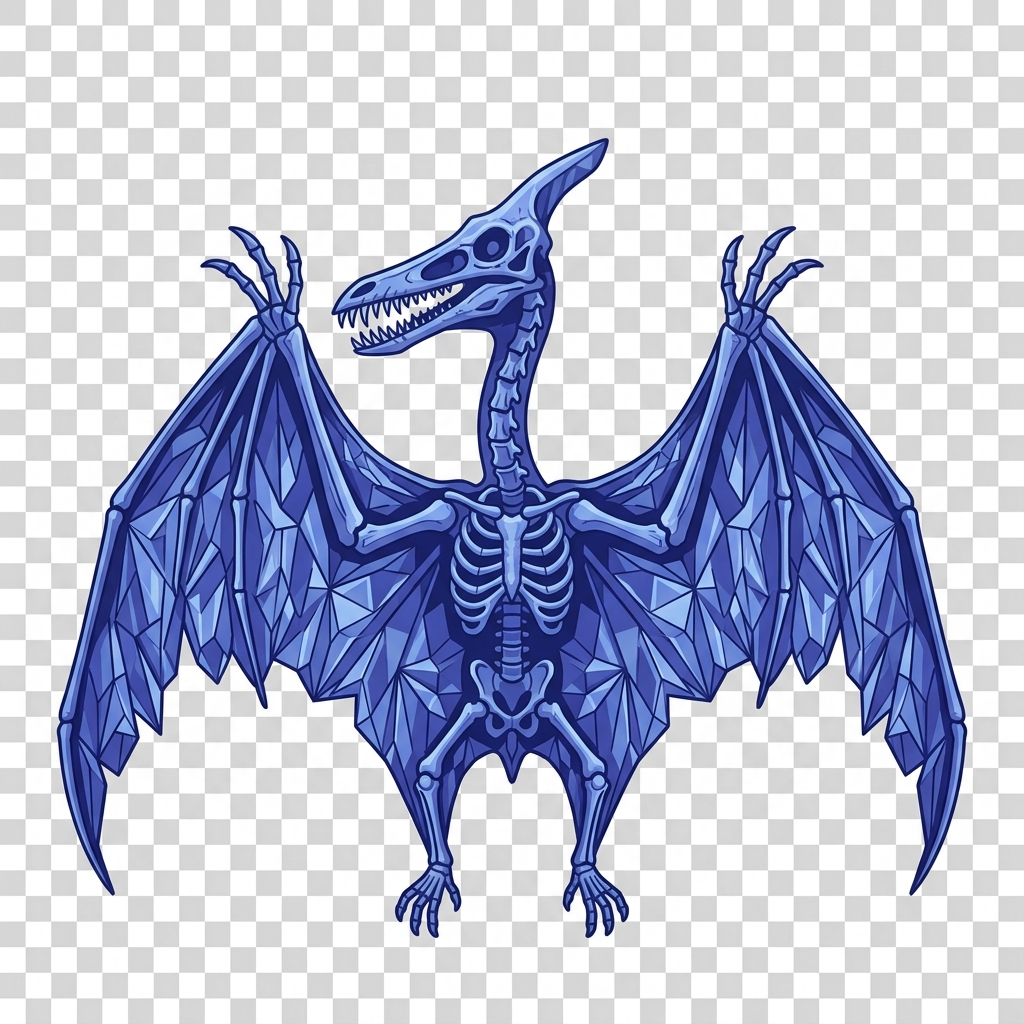
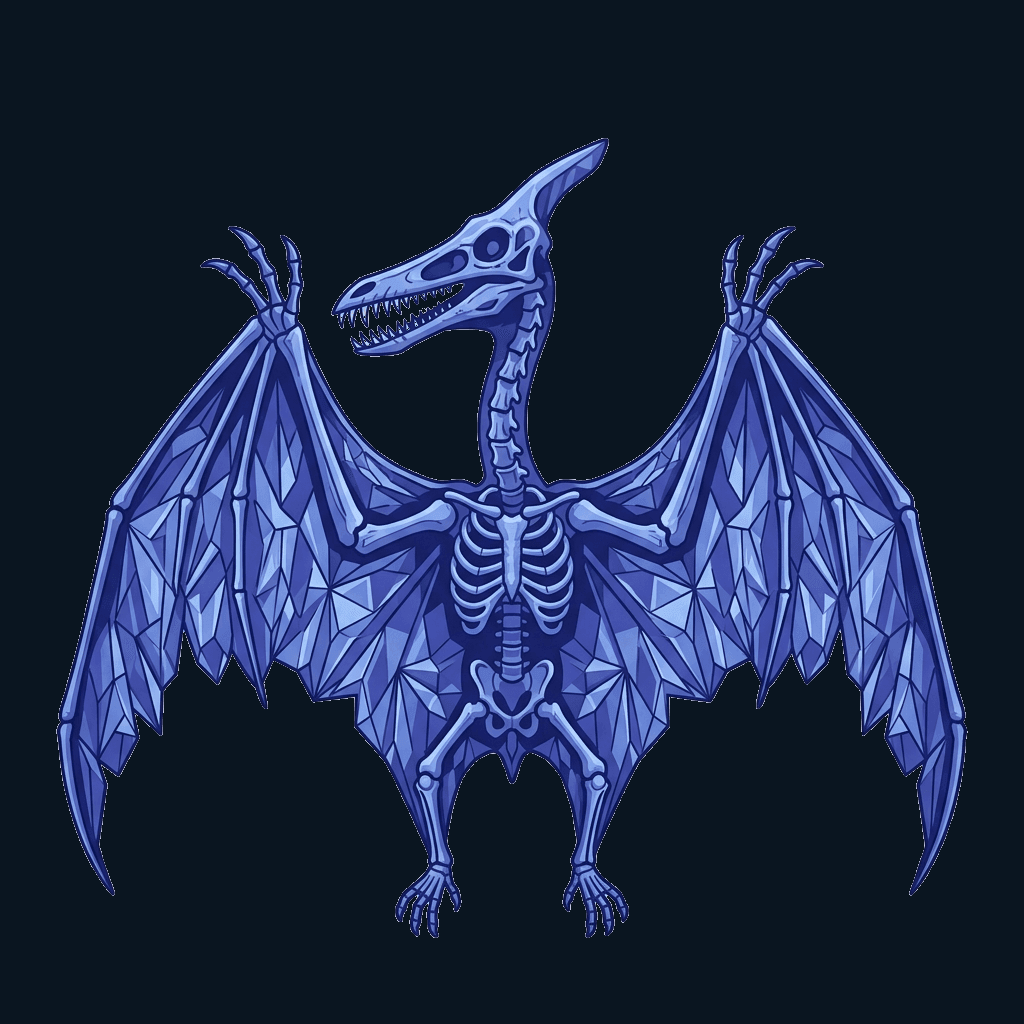
fix: remove checkerboard backgrounds from all 8 fossil images
Used pixel-level saturation detection to replace neutral gray checkerboard
pixels (baked into RGB, not alpha transparency) with solid dark #0a1520
background matching the game canvas. Also removed mixBlendMode:'screen'
from museum display which was amplifying the artifact.

Processed: amonita, ballena, escorpion, esqueleto, gusano, hongo,
pterodactilo, pulpo - all now have clean dark backgrounds.

diff --git a/components/games/XenoPaleontologia.js b/components/games/XenoPaleontologia.js
@@ -635,7 +635,9 @@ export default function XenoPaleontologia({ onComplete }) {
                           style={{
                             width: '200px', height: '200px', objectFit: 'contain',
                             filter: `drop-shadow(0 6px 20px ${currentSlot.glow}90) drop-shadow(0 0 50px ${currentSlot.glow}30)`,
-                            mixBlendMode: 'screen',
+                            background: 'radial-gradient(circle, #0a1520 60%, transparent 100%)',
+                            borderRadius: '50%',
+                            padding: '10px',
                           }}
                           onError={e => { e.currentTarget.style.opacity = '0'; }}
                         />
